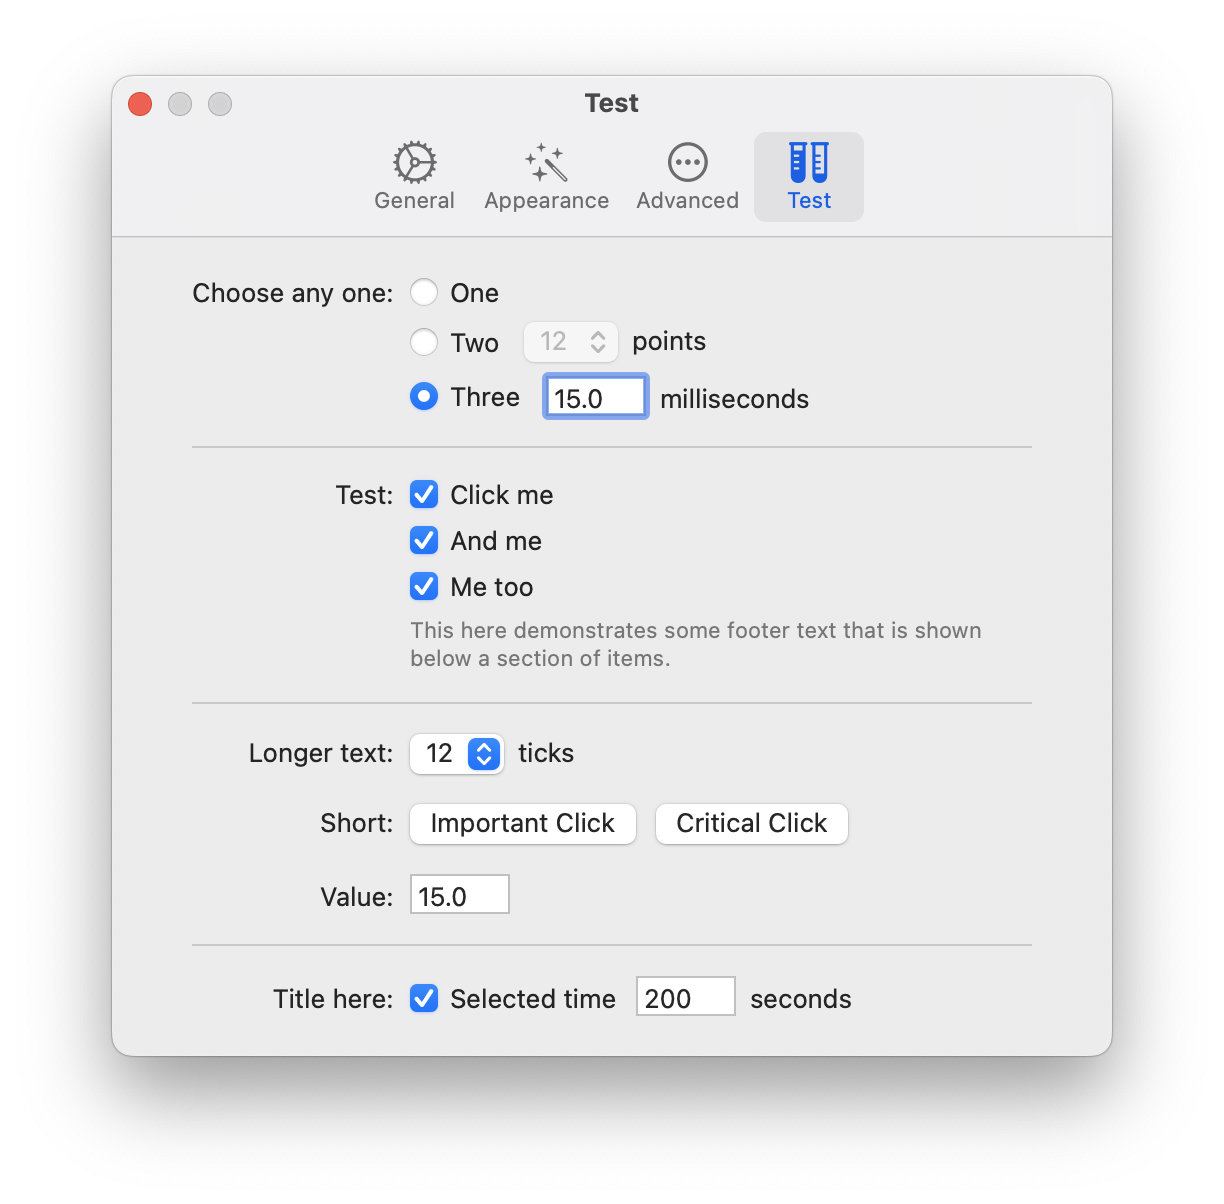
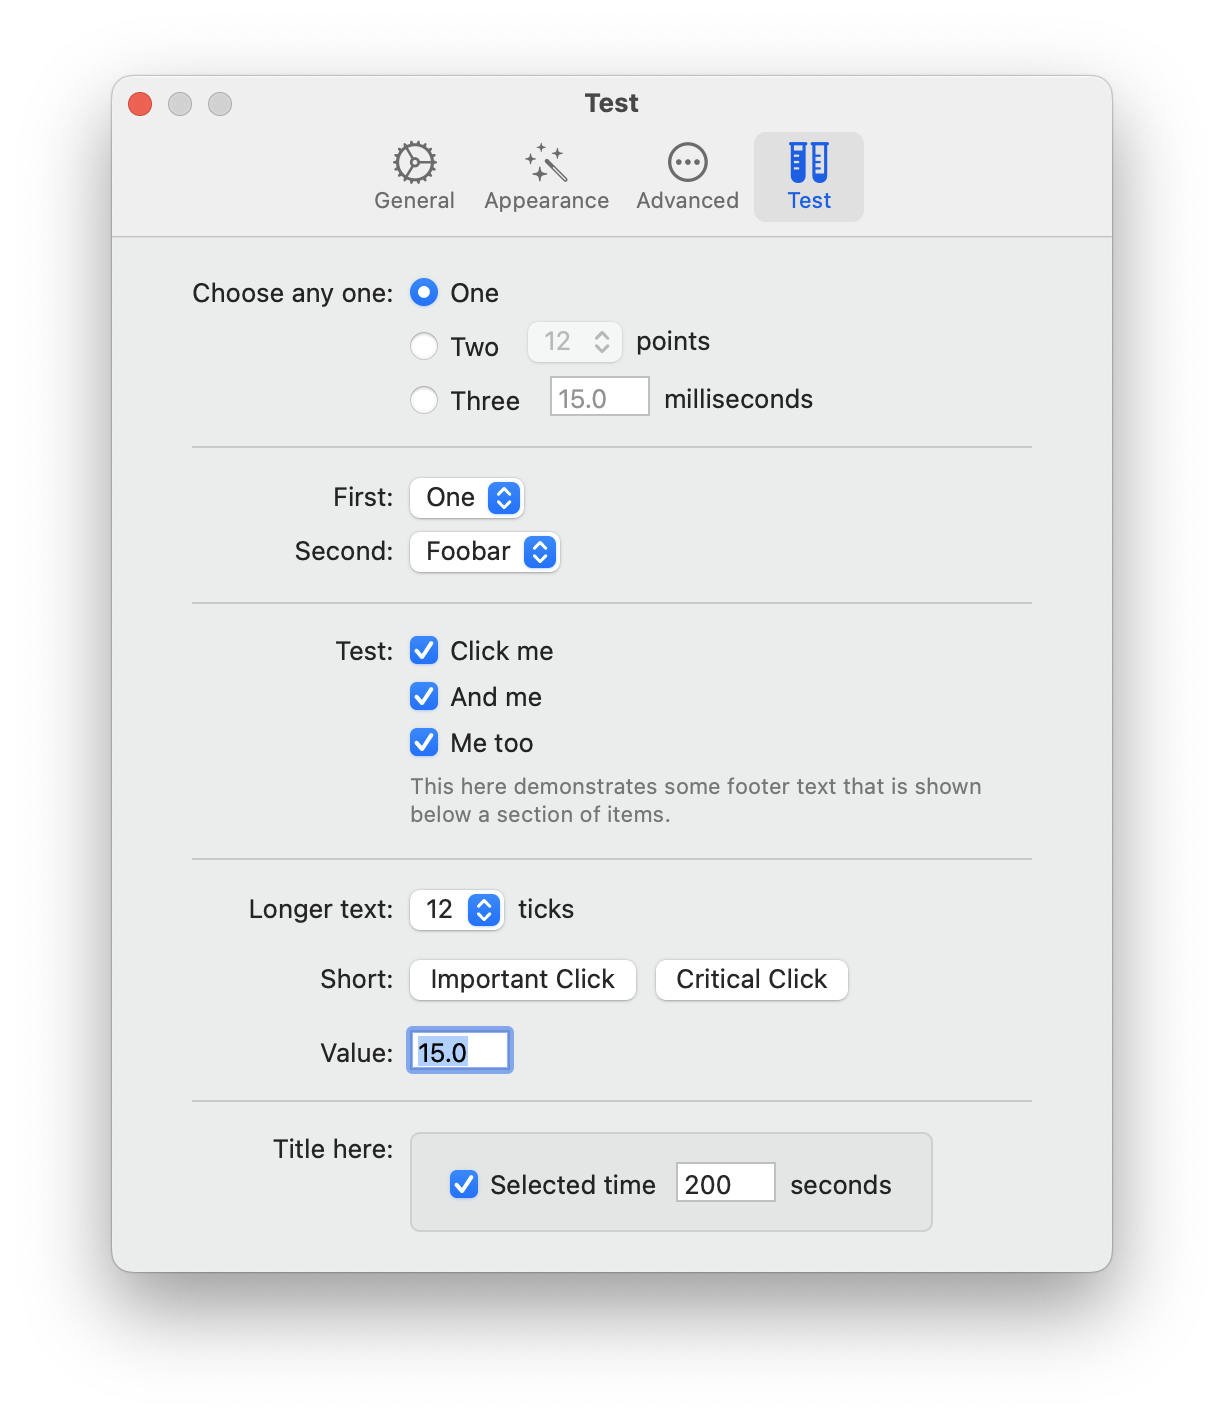
Update README.

diff --git a/README.md b/README.md
@@ -26,6 +26,7 @@ import CocoaCompose
 ## Components
 
 CocoaCompose includes these components
+- [Box](https://github.com/PasiSalenius/CocoaCompose#box)
 - [Label](https://github.com/PasiSalenius/CocoaCompose#label)
 - [Button](https://github.com/PasiSalenius/CocoaCompose#button)
 - [Checkbox](https://github.com/PasiSalenius/CocoaCompose#checkbox)
@@ -36,9 +37,22 @@ CocoaCompose includes these components
 
 The following two components help build preference window content
 - [PreferenceList](https://github.com/PasiSalenius/CocoaCompose#preferencelist)
+- [PreferenceGroup](https://github.com/PasiSalenius/CocoaCompose#preferencegroup)
 - [PreferenceSection](https://github.com/PasiSalenius/CocoaCompose#preferencesection)
 
 All of the components are configured to look right in a Mac app out of the box, and come with easy to use initialisers, and take a closure for value changes. All components are set to dynamic type `NSFont.TextStyle.body` by default.
+
+### Box
+
+`Box` combines a title label and a gray colored wrapper view.
+
+```swift
+let box = Box(title: "Title", orientation: .vertical, views: [
+    ...
+])
+```
+
+<img width="150" alt="Box" src="Assets/box.png"/>
 
 ### Label
 
@@ -217,17 +231,30 @@ override func loadView() {
             Radio(items: [
                 .init(title: "One"),
                 .init(title: "Two", views: [
-                    PopUp(items: ["12", "13"], selectedIndex: 0, text: "points") { item in
+                    PopUp(items: ["12", "13"].map { .init(title: $0) }, selectedIndex: 0, text: "points") { index, title in
                         
                     }
                 ]),
                 .init(title: "Three", views: [
-                    TextField(value: "15.0", text: "milliseconds") { text in
+                    TextField(value: "15.0", text: "milliseconds", width: 50) { text in
                 
                     }
-                ])], selectedIndex: 0) { index in
+                ])], selectedIndex: 0) { index, previousIndex in
                 
                 },
+        ]),
+        Separator(),
+        PreferenceGroup(items: [
+            .init(title: "First:", views: [
+                PopUp(items: ["One", "Two"].map { .init(title: $0) }, selectedIndex: 0) { index, title in
+                    
+                }
+            ]),
+            .init(title: "Second:", views: [
+                PopUp(items: ["Foobar", "Plop"].map { .init(title: $0) }, selectedIndex: 0) { index, title in
+                    
+                }
+            ]),
         ]),
         Separator(),
         PreferenceSection(title: "Test:", footer: "This here demonstrates some footer text that is shown below a section of items.", views: [
@@ -243,7 +270,7 @@ override func loadView() {
         ]),
         Separator(),
         PreferenceSection(title: "Longer text:", views: [
-            PopUp(items: ["12", "13"], selectedIndex: 0, text: "ticks") { item in
+            PopUp(items: ["12", "13"].map { .init(title: $0) }, selectedIndex: 0, text: "ticks") { index, title in
                 
             },
         ]),
@@ -256,19 +283,21 @@ override func loadView() {
             },
         ]),
         PreferenceSection(title: "Value:", views: [
-            TextField(value: "15.0") { text in
+            TextField(value: "15.0", width: 50) { text in
                 
             },
         ]),
         Separator(),
         PreferenceSection(title: "Title here:", views: [
-            Checkbox(title: "Selected time", on: true, views: [
-                TextField(value: "200", text: "seconds") { text in
-                
-                }
-            ], onChange: { enabled in
-                
-            }),
+            Box(views: [
+                Checkbox(title: "Selected time", on: true, views: [
+                    TextField(value: "200", text: "seconds", width: 50) { text in
+                    
+                    }
+                ], onChange: { enabled in
+                    
+                }),
+            ])
         ]),
     ])
     
